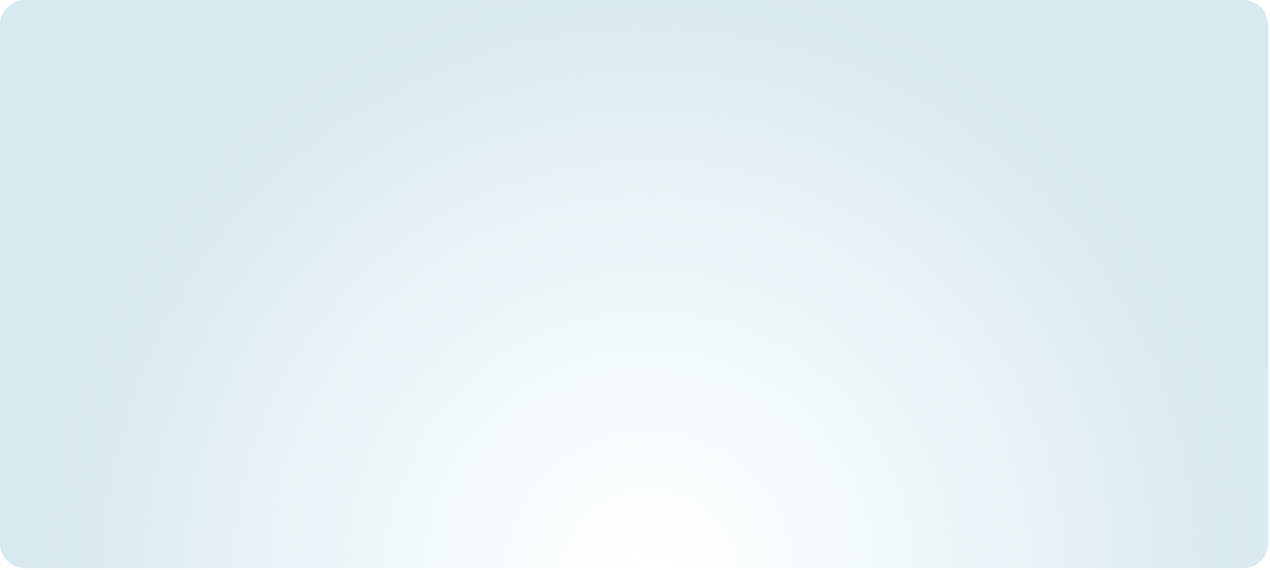
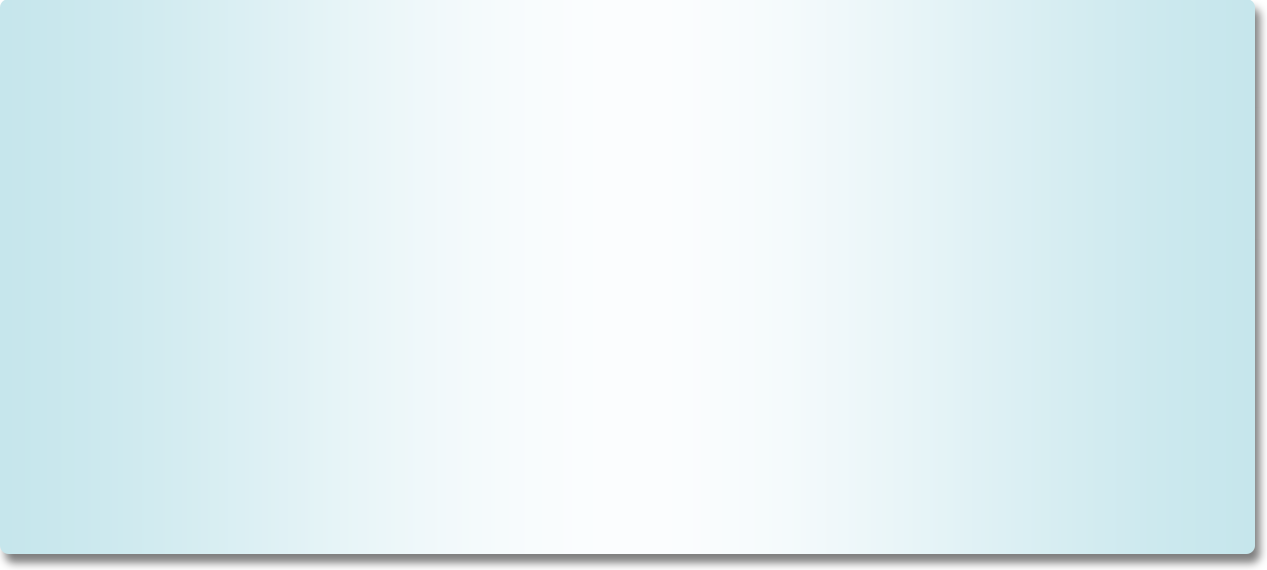
win_header reworked to image

Changed region(s): [[0.0, 0.0, 1.0, 1.0], [0.3386, 0.0, 0.6464, 0.2386], [0.0, 0.0, 0.0308, 0.0298]]

diff --git a/Conversus.TerminalView/Views/Terminal/OnlineRegisterPage.xaml b/Conversus.TerminalView/Views/Terminal/OnlineRegisterPage.xaml
@@ -10,7 +10,10 @@
     <Grid>
         <WebBrowser Name="browser" Margin="30,70,30,30" Source="http://000-sp3.mog.ent.local/_layouts/LoginPersonalCabinet.aspx?ReturnUrl=%2fClientOrders%2fList.aspx"></WebBrowser>
         <StackPanel HorizontalAlignment="Stretch" Margin="30,20,30,0" Height="50" VerticalAlignment="Top">
-            <Border CornerRadius="20,10,0,0" Background="{StaticResource GreenGradientBg}">
+            <Border CornerRadius="20,10,0,0">
+                <Border.Background>
+                    <ImageBrush ImageSource="\Content/images/bg/win_header.png"></ImageBrush>
+                </Border.Background>
                 <Image Source="/Content/images/buttons/closeButton.png" MouseDown="Image_MouseDown" Width="50" Height="50" HorizontalAlignment="Right" VerticalAlignment="Top"></Image>
             </Border>
         </StackPanel>
